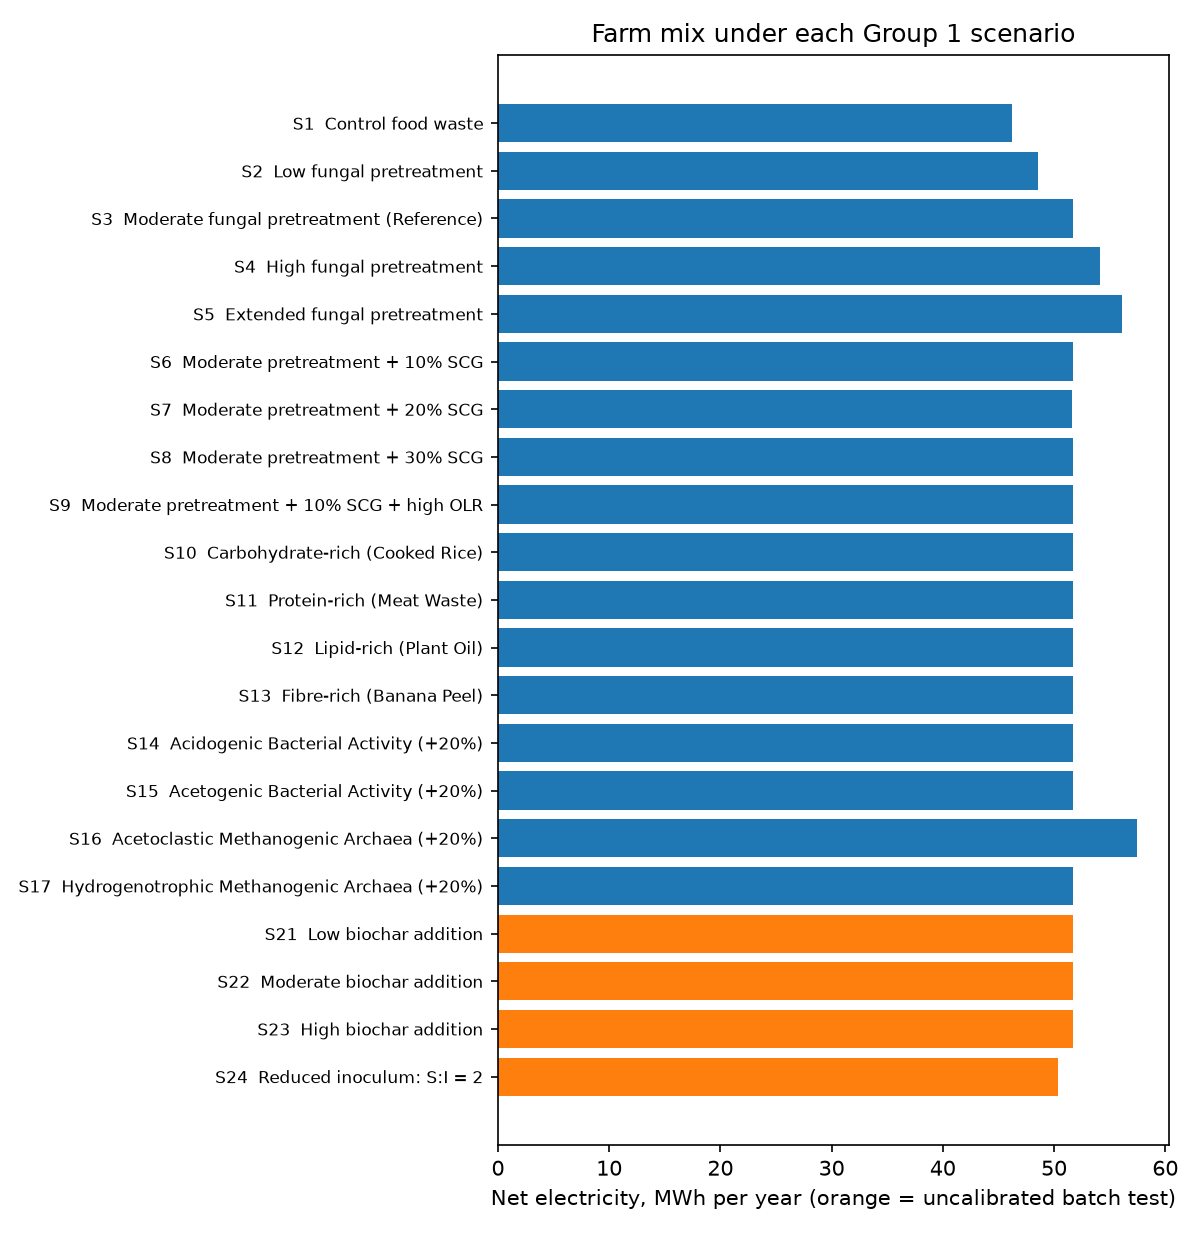
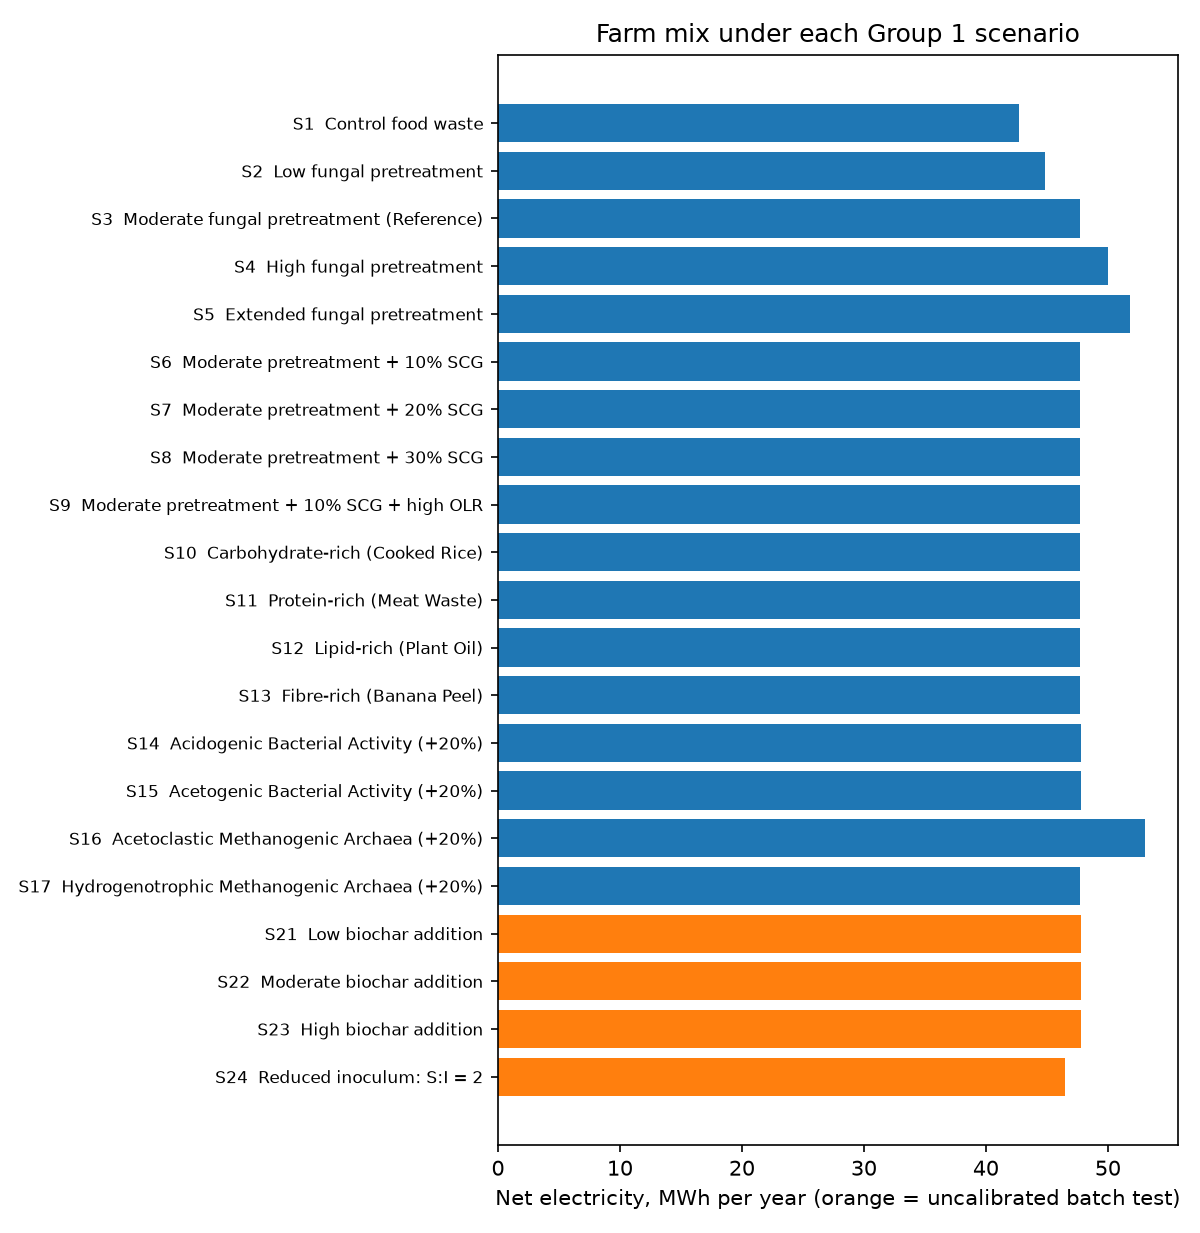
V2 of Energy Recovery and money saved

diff --git a/outputs/report.md b/outputs/report.md
@@ -5,25 +5,25 @@
 | metric                         |    value |
 |:-------------------------------|---------:|
 | Waste processed (wet t/yr)     |   146    |
-| Methane (Nm3/yr)               | 16488.7  |
-| Gross electricity (kWh/yr)     | 57404.8  |
-| Net electricity (kWh/yr)       | 51664.3  |
-| Useful recovered heat (kWh/yr) | 51664.8  |
+| Methane (Nm3/yr)               | 15232.3  |
+| Gross electricity (kWh/yr)     | 53030.8  |
+| Net electricity (kWh/yr)       | 47727.7  |
+| Useful recovered heat (kWh/yr) | 47728.1  |
 | Overall efficiency (%)         |    63    |
-| Electricity saving ($/yr)      | 13122.7  |
-| Heat saving ($/yr)             |  3646.92 |
-| CO2 avoided (t/yr)             |    48.32 |
+| Electricity saving ($/yr)      | 12122.8  |
+| Heat saving ($/yr)             |  3369.04 |
+| CO2 avoided (t/yr)             |    44.64 |
 
 ## Energy balance
 
 ```
-Energy in                      164,015kWh/yr
-Gross useful output             57,405kWh/yr
-of which own use                 5,740kWh/yr
-Net electricity                 51,664kWh/yr
-Recovered heat used             51,665kWh/yr
-Loses                           54,946kWh/yr
-Total out                      164,015kWh/yr
+Energy in                      151,518kWh/yr
+Gross useful output             53,031kWh/yr
+of which own use                 5,303kWh/yr
+Net electricity                 47,728kWh/yr
+Recovered heat used             47,728kWh/yr
+Loses                           50,759kWh/yr
+Total out                      151,518kWh/yr
 Closure error                    0.0%
 Efficiency (gross)              66.5%
 Efficiency (net)                63.0%
@@ -33,48 +33,48 @@ Efficiency (net)                63.0%
 
 | composition        |   wet_kg_per_day |   vs_kg_per_day |   ch4_nm3_per_day |   electricity_kwh_per_year |   vs_first |
 |:-------------------|-----------------:|----------------:|------------------:|---------------------------:|-----------:|
-| Farm mix           |              400 |             108 |             45.17 |                    57404.8 |       0    |
-| All food waste     |              400 |             100 |             43.03 |                    54675.4 |      -0.05 |
-| Carbohydrate-heavy |              400 |             118 |             43.36 |                    55103.2 |      -0.04 |
-| With oil           |              400 |             118 |             57.2  |                    72685.9 |       0.27 |
-| All oil            |              400 |             380 |            305.01 |                   387590   |       5.75 |
+| Farm mix           |              400 |           100   |             41.73 |                    53030.8 |       0    |
+| All food waste     |              400 |            90   |             38.72 |                    49207.9 |      -0.07 |
+| Carbohydrate-heavy |              400 |           116   |             42.5  |                    54009.7 |       0.02 |
+| With oil           |              400 |           109.5 |             53.54 |                    68038.5 |       0.28 |
+| All oil            |              400 |           380   |            305.01 |                   387590   |       6.31 |
 
 ## Alignment with Group 1
 
 - Yield basis: methane per kg VS fed (Treated Yield / VS fed), as in formulas 22-23
 - S3: 430.2 L CH4/kg VS used; Group 1's Specific Yield column says 285.1
 - Group 1's Specific Yield column is not methane per kg VS fed (it is treated yield x stability / 2.5), so it is not used
-- Food-waste VS share of wet weight: yours 0.250, Group 1 0.225
-- Farm mix by VS (Group 1's SCG percentages are by VS): food_waste 74.1%, scg 25.9%
-- Check: Group 1's own feed in your model gives 3.74 kWh/day of electricity vs their 3.37 (+11.1%, does not match)
+- Food-waste VS share of wet weight: yours 0.225, Group 1 0.225
+- Farm mix by VS (Group 1's SCG percentages are by VS): food_waste 72.0%, scg 28.0%
+- Check: Group 1's own feed in your model gives 3.37 kWh/day of electricity vs their 3.37 (+0.0%, matches)
 
 ## All scenarios
 
 The farm's own waste run under each Group 1 scenario. Full columns are in all_scenarios.csv.
 
-| Scenario ID   | Scenario                                     |   Yield multiplier |   Net electricity (kWh/yr) |   CO2 avoided (t/yr) |   Total Savings ($/yr) |   Net electricity vs S1 (%) | Notes                                                                   |
+| Scenario ID   | Scenario                                     |   Yield multiplier |   Net electricity (kWh/yr) |   CO2 avoided (t/yr) |   Total Savings ($/yr) |   Net electricity vs S3 (%) | Notes                                                                   |
 |:--------------|:---------------------------------------------|-------------------:|---------------------------:|---------------------:|-----------------------:|----------------------------:|:------------------------------------------------------------------------|
-| S1            | Control food waste                           |              0.895 |                    46220.4 |               43.23  |                15002.6 |                       0     |                                                                         |
-| S2            | Low fungal pretreatment                      |              0.939 |                    48515.4 |               45.376 |                15747.5 |                       4.965 |                                                                         |
-| S3            | Moderate fungal pretreatment (Reference)     |              1     |                    51664.3 |               48.321 |                16769.7 |                      11.778 |                                                                         |
-| S4            | High fungal pretreatment                     |              1.049 |                    54172.8 |               50.668 |                17583.9 |                      17.206 |                                                                         |
-| S5            | Extended fungal pretreatment                 |              1.086 |                    56094.2 |               52.465 |                18207.6 |                      21.363 |                                                                         |
-| S6            | Moderate pretreatment + 10% SCG              |              1     |                    51680.5 |               48.337 |                16774.9 |                      11.813 | different feedstock; only its process effect is applied to the farm mix |
-| S7            | Moderate pretreatment + 20% SCG              |              1     |                    51648   |               48.306 |                16764.4 |                      11.743 | different feedstock; only its process effect is applied to the farm mix |
-| S8            | Moderate pretreatment + 30% SCG              |              1     |                    51669.9 |               48.327 |                16771.5 |                      11.79  | different feedstock; only its process effect is applied to the farm mix |
-| S9            | Moderate pretreatment + 10% SCG + high OLR   |              1     |                    51680.5 |               48.337 |                16774.9 |                      11.813 | different feedstock; only its process effect is applied to the farm mix |
-| S10           | Carbohydrate-rich (Cooked Rice)              |              1     |                    51664.3 |               48.321 |                16769.7 |                      11.778 | different feedstock; only its process effect is applied to the farm mix |
-| S11           | Protein-rich (Meat Waste)                    |              1     |                    51664.3 |               48.321 |                16769.7 |                      11.778 | different feedstock; only its process effect is applied to the farm mix |
-| S12           | Lipid-rich (Plant Oil)                       |              1     |                    51664.3 |               48.321 |                16769.7 |                      11.778 | different feedstock; only its process effect is applied to the farm mix |
-| S13           | Fibre-rich (Banana Peel)                     |              1     |                    51664.3 |               48.321 |                16769.7 |                      11.778 | different feedstock; only its process effect is applied to the farm mix |
-| S14           | Acidogenic Bacterial Activity (+20%)         |              1.001 |                    51717.7 |               48.371 |                16787   |                      11.894 |                                                                         |
-| S15           | Acetogenic Bacterial Activity (+20%)         |              1.001 |                    51717.7 |               48.371 |                16787   |                      11.894 |                                                                         |
-| S16           | Acetoclastic Methanogenic Archaea (+20%)     |              1.112 |                    57428.5 |               53.713 |                18640.7 |                      24.249 | Group 1 energy columns don't match its yield; energy taken from yield   |
-| S17           | Hydrogenotrophic Methanogenic Archaea (+20%) |              1     |                    51664.3 |               48.321 |                16769.7 |                      11.778 |                                                                         |
-| S21           | Low biochar addition                         |              1.001 |                    51732.6 |               48.385 |                16791.8 |                      11.926 | effect from uncalibrated batch test                                     |
-| S22           | Moderate biochar addition                    |              1.001 |                    51730.7 |               48.384 |                16791.2 |                      11.922 | effect from uncalibrated batch test                                     |
-| S23           | High biochar addition                        |              1.001 |                    51710.9 |               48.365 |                16784.8 |                      11.879 | effect from uncalibrated batch test                                     |
-| S24           | Reduced inoculum: S:I = 2                    |              0.975 |                    50347.6 |               47.09  |                16342.3 |                       8.929 | effect from uncalibrated batch test                                     |
+| S1            | Control food waste                           |              0.895 |                    42698.6 |               39.936 |                13859.5 |                     -10.537 |                                                                         |
+| S2            | Low fungal pretreatment                      |              0.939 |                    44818.7 |               41.919 |                14547.6 |                      -6.095 |                                                                         |
+| S3            | Moderate fungal pretreatment (Reference)     |              1     |                    47727.7 |               44.64  |                15491.9 |                       0     |                                                                         |
+| S4            | High fungal pretreatment                     |              1.049 |                    50045.1 |               46.807 |                16244.1 |                       4.855 |                                                                         |
+| S5            | Extended fungal pretreatment                 |              1.086 |                    51820.1 |               48.467 |                16820.2 |                       8.574 |                                                                         |
+| S6            | Moderate pretreatment + 10% SCG              |              1     |                    47742.7 |               44.654 |                15496.7 |                       0.031 | different feedstock; only its process effect is applied to the farm mix |
+| S7            | Moderate pretreatment + 20% SCG              |              1     |                    47712.6 |               44.625 |                15487   |                      -0.032 | different feedstock; only its process effect is applied to the farm mix |
+| S8            | Moderate pretreatment + 30% SCG              |              1     |                    47732.8 |               44.644 |                15493.5 |                       0.011 | different feedstock; only its process effect is applied to the farm mix |
+| S9            | Moderate pretreatment + 10% SCG + high OLR   |              1     |                    47742.7 |               44.654 |                15496.7 |                       0.031 | different feedstock; only its process effect is applied to the farm mix |
+| S10           | Carbohydrate-rich (Cooked Rice)              |              1     |                    47727.7 |               44.64  |                15491.9 |                       0     | different feedstock; only its process effect is applied to the farm mix |
+| S11           | Protein-rich (Meat Waste)                    |              1     |                    47727.7 |               44.64  |                15491.9 |                      -0     | different feedstock; only its process effect is applied to the farm mix |
+| S12           | Lipid-rich (Plant Oil)                       |              1     |                    47727.7 |               44.64  |                15491.9 |                      -0     | different feedstock; only its process effect is applied to the farm mix |
+| S13           | Fibre-rich (Banana Peel)                     |              1     |                    47727.7 |               44.64  |                15491.9 |                       0     | different feedstock; only its process effect is applied to the farm mix |
+| S14           | Acidogenic Bacterial Activity (+20%)         |              1.001 |                    47777   |               44.686 |                15507.9 |                       0.103 |                                                                         |
+| S15           | Acetogenic Bacterial Activity (+20%)         |              1.001 |                    47777   |               44.686 |                15507.9 |                       0.103 |                                                                         |
+| S16           | Acetoclastic Methanogenic Archaea (+20%)     |              1.112 |                    53052.7 |               49.62  |                17220.3 |                      11.157 | Group 1 energy columns don't match its yield; energy taken from yield   |
+| S17           | Hydrogenotrophic Methanogenic Archaea (+20%) |              1     |                    47727.7 |               44.64  |                15491.9 |                       0     |                                                                         |
+| S21           | Low biochar addition                         |              1.001 |                    47790.8 |               44.699 |                15512.3 |                       0.132 | effect from uncalibrated batch test                                     |
+| S22           | Moderate biochar addition                    |              1.001 |                    47789   |               44.697 |                15511.8 |                       0.128 | effect from uncalibrated batch test                                     |
+| S23           | High biochar addition                        |              1.001 |                    47770.8 |               44.68  |                15505.9 |                       0.09  | effect from uncalibrated batch test                                     |
+| S24           | Reduced inoculum: S:I = 2                    |              0.975 |                    46511.3 |               43.502 |                15097   |                      -2.549 | effect from uncalibrated batch test                                     |
 
 ## Data checks (for Group 1)
 
